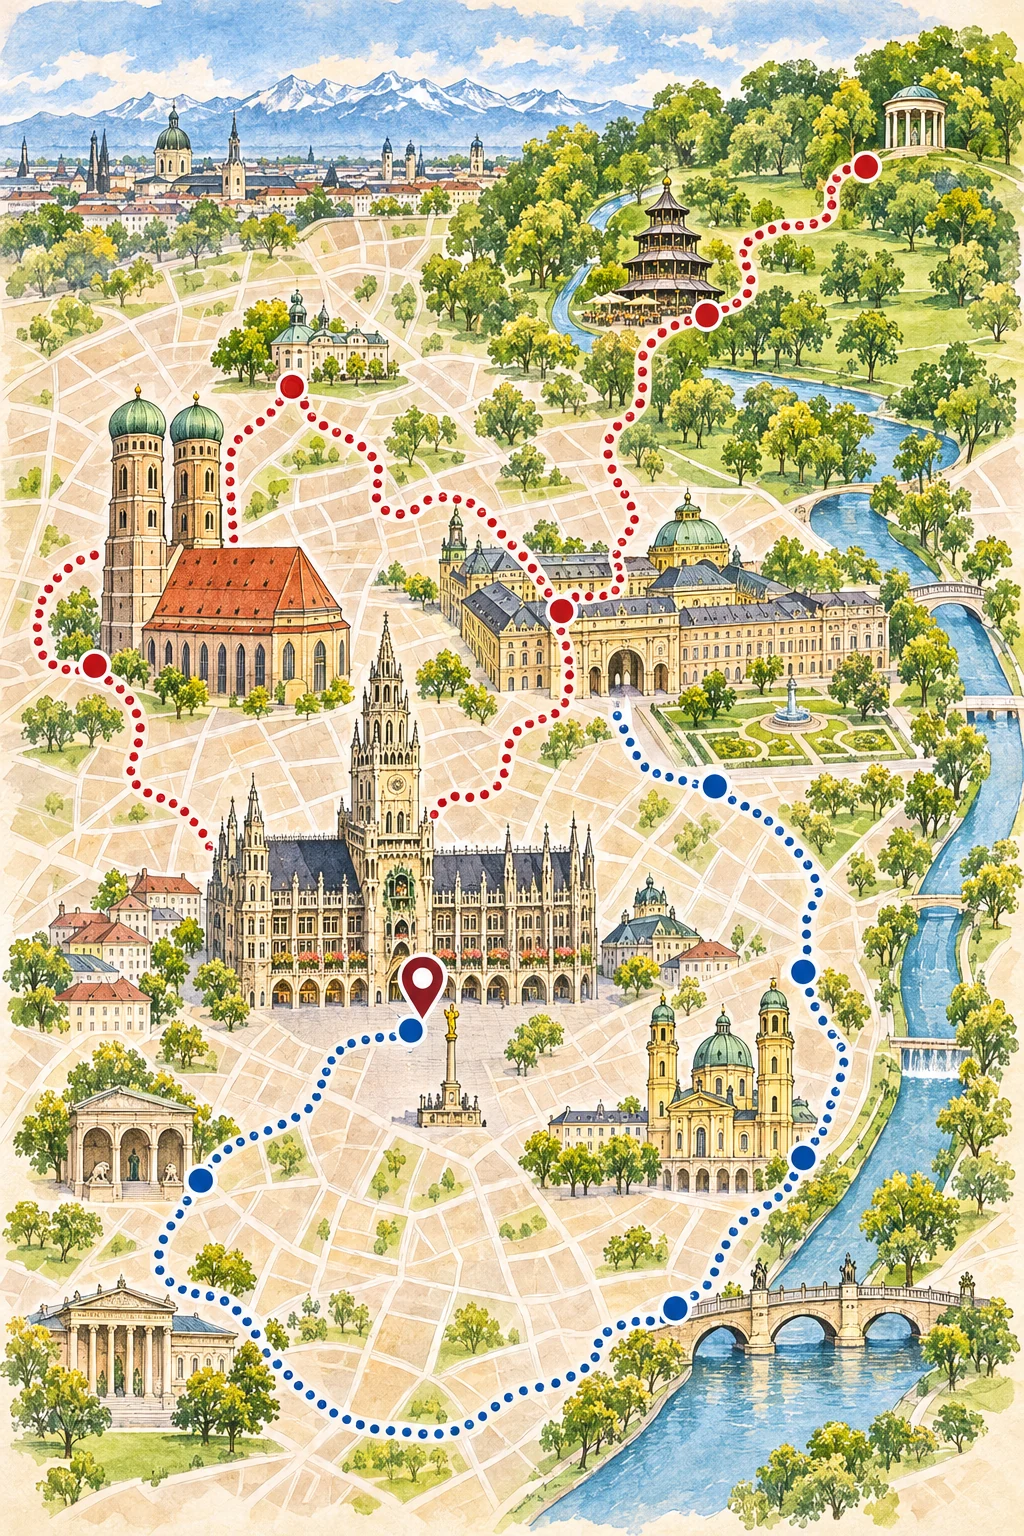
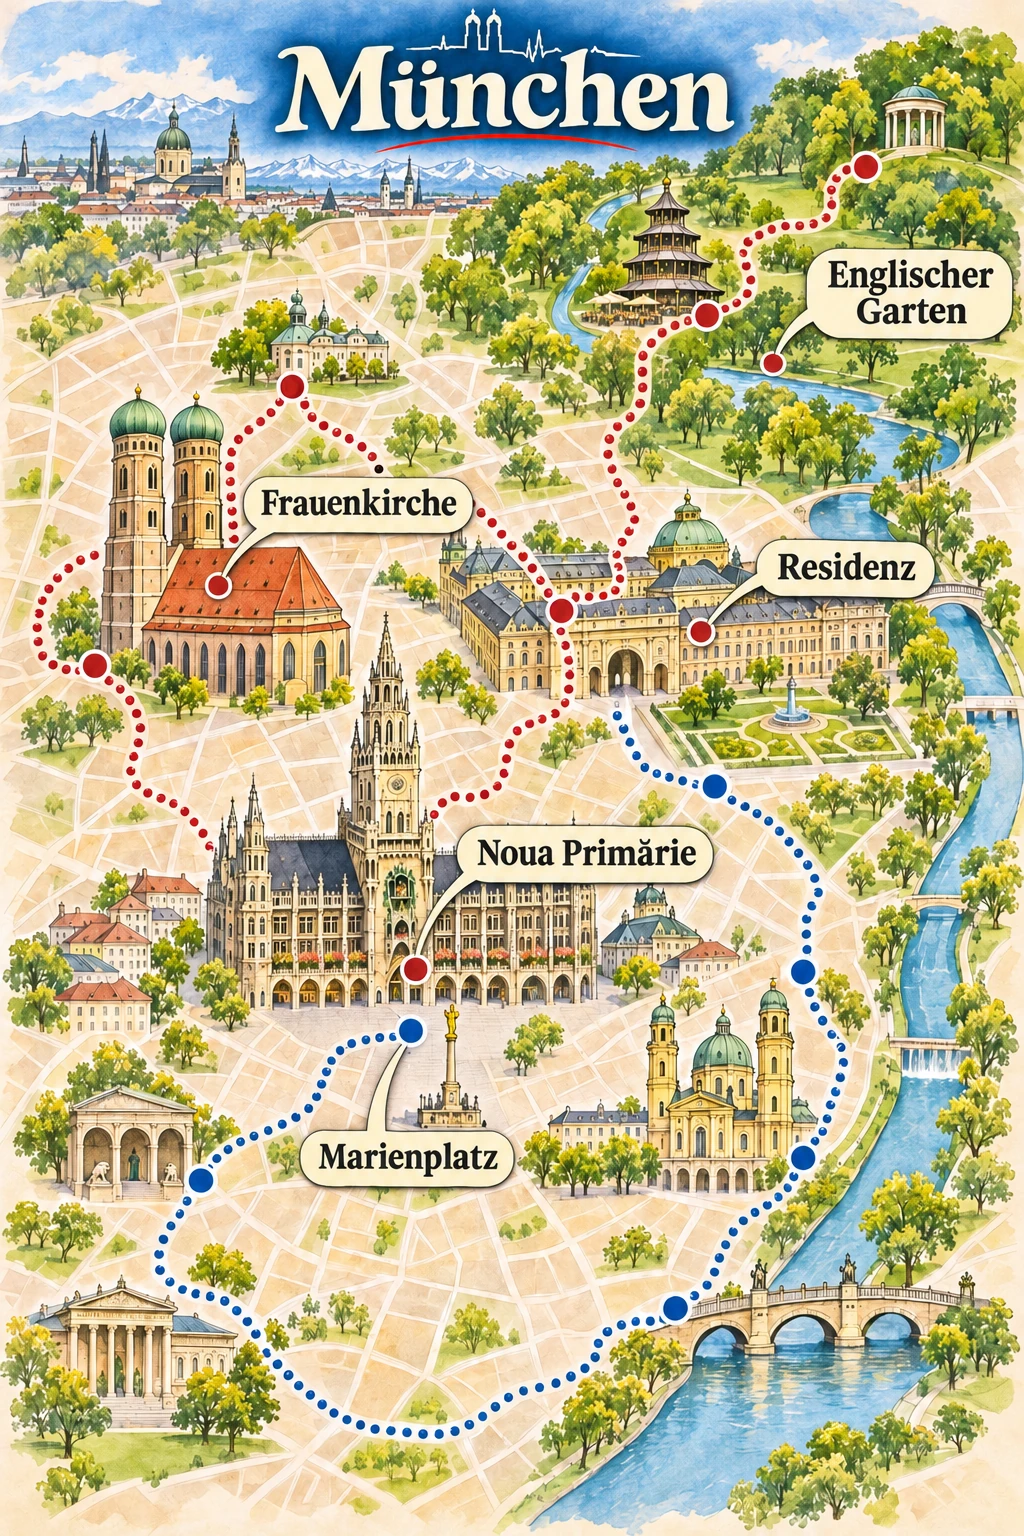
Add attraction labels to Munich guide map

diff --git a/ILUSTRATII.md b/ILUSTRATII.md
@@ -56,9 +56,10 @@ Se adaugă numele obiectivelor direct pe hărțile existente, în stilul aprobat
 - Bordeaux
 - Catania
 - Málaga
+- München
 
-Harta originală pentru Praga avea deja etichete. Celelalte orașe din `assets/guides-prague-style/` necesită în continuare verificare și prelucrare. Actualizează această listă în același commit cu fiecare lot nou.
+Harta originală pentru Praga avea deja etichete. Toate ilustrațiile existente din `assets/guides-prague-style/` au fost verificate și actualizate.
 
-Ilustrațiile fără etichete sunt păstrate în istoricul Git: pentru Roma și Barcelona folosește fișierul de la commitul `14f016a`, iar pentru Paris, Londra, Lisabona, Berlin și Bruxelles de la `508e691`. Pentru Budapesta, Atena, Veneția, Amsterdam, Viena, Milano, Madrid, Bologna, Lyon, Porto, Varșovia, Copenhaga, Edinburgh, Bruges, Köln, Dublin, Cracovia, Stockholm, Chișinău, Bratislava, Sofia, Oslo, Bari, Napoli, Sevilla, Istanbul, Dubrovnik, Palermo, Pisa, Florența, Valencia, Nisa, Marsilia, Glasgow, Helsinki, Riga, Tallinn, Vilnius, Ljubljana, Split, Salonic, Zürich, Belgrad, Bordeaux, Catania și Málaga se pot folosi originalele de la `48efdd5`. Copii locale sunt în `/workspace/guide-batch/original-illustrations` când acel director este disponibil. Păstrează imaginile originale pentru quiz.
+Ilustrațiile fără etichete sunt păstrate în istoricul Git: pentru Roma și Barcelona folosește fișierul de la commitul `14f016a`, iar pentru Paris, Londra, Lisabona, Berlin și Bruxelles de la `508e691`. Pentru Budapesta, Atena, Veneția, Amsterdam, Viena, Milano, Madrid, Bologna, Lyon, Porto, Varșovia, Copenhaga, Edinburgh, Bruges, Köln, Dublin, Cracovia, Stockholm, Chișinău, Bratislava, Sofia, Oslo, Bari, Napoli, Sevilla, Istanbul, Dubrovnik, Palermo, Pisa, Florența, Valencia, Nisa, Marsilia, Glasgow, Helsinki, Riga, Tallinn, Vilnius, Ljubljana, Split, Salonic, Zürich, Belgrad, Bordeaux, Catania, Málaga și München se pot folosi originalele de la `48efdd5`. Copii locale sunt în `/workspace/guide-batch/original-illustrations` când acel director este disponibil. Păstrează imaginile originale pentru quiz.
 
 Nu modifica funcționalitatea de căutare a zborurilor în cadrul acestei activități.
